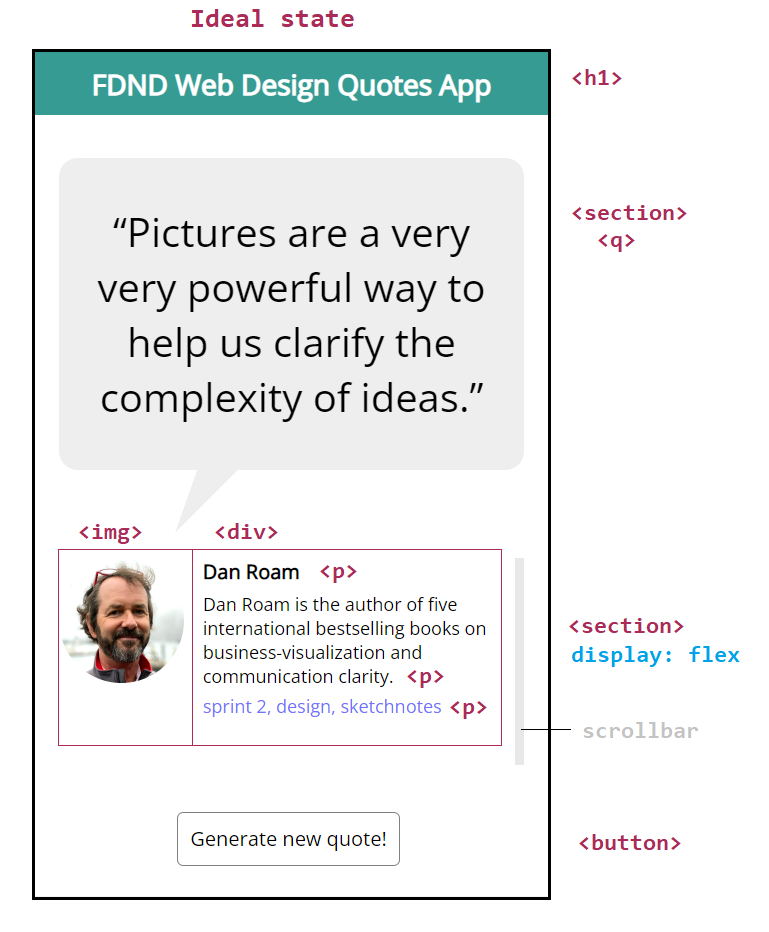
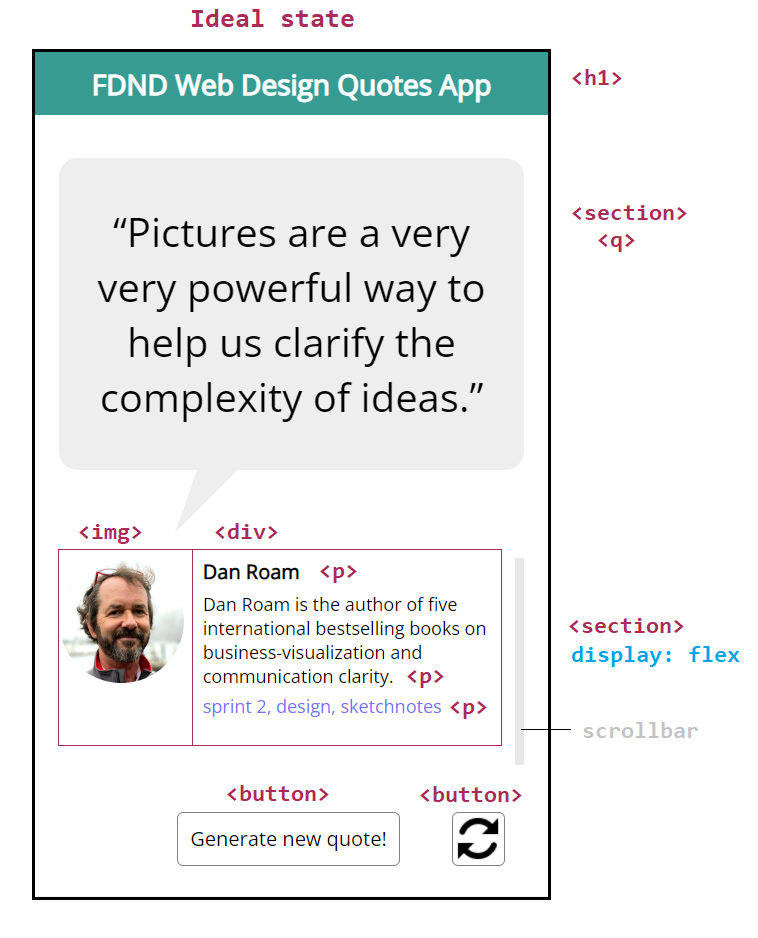
updated

diff --git a/README.md b/README.md
@@ -17,6 +17,9 @@ Dit project kent een aantal verschillende schermen:
 ### Ideal state:
 ![](projectbeschrijving_images/ideal_state.png)
 
+### Ideal auto reload state:
+![](projectbeschrijving_images/ideal_auto_reload_state.png)
+
 ### Loading state:
 ![](projectbeschrijving_images/loading_state.png)
 
